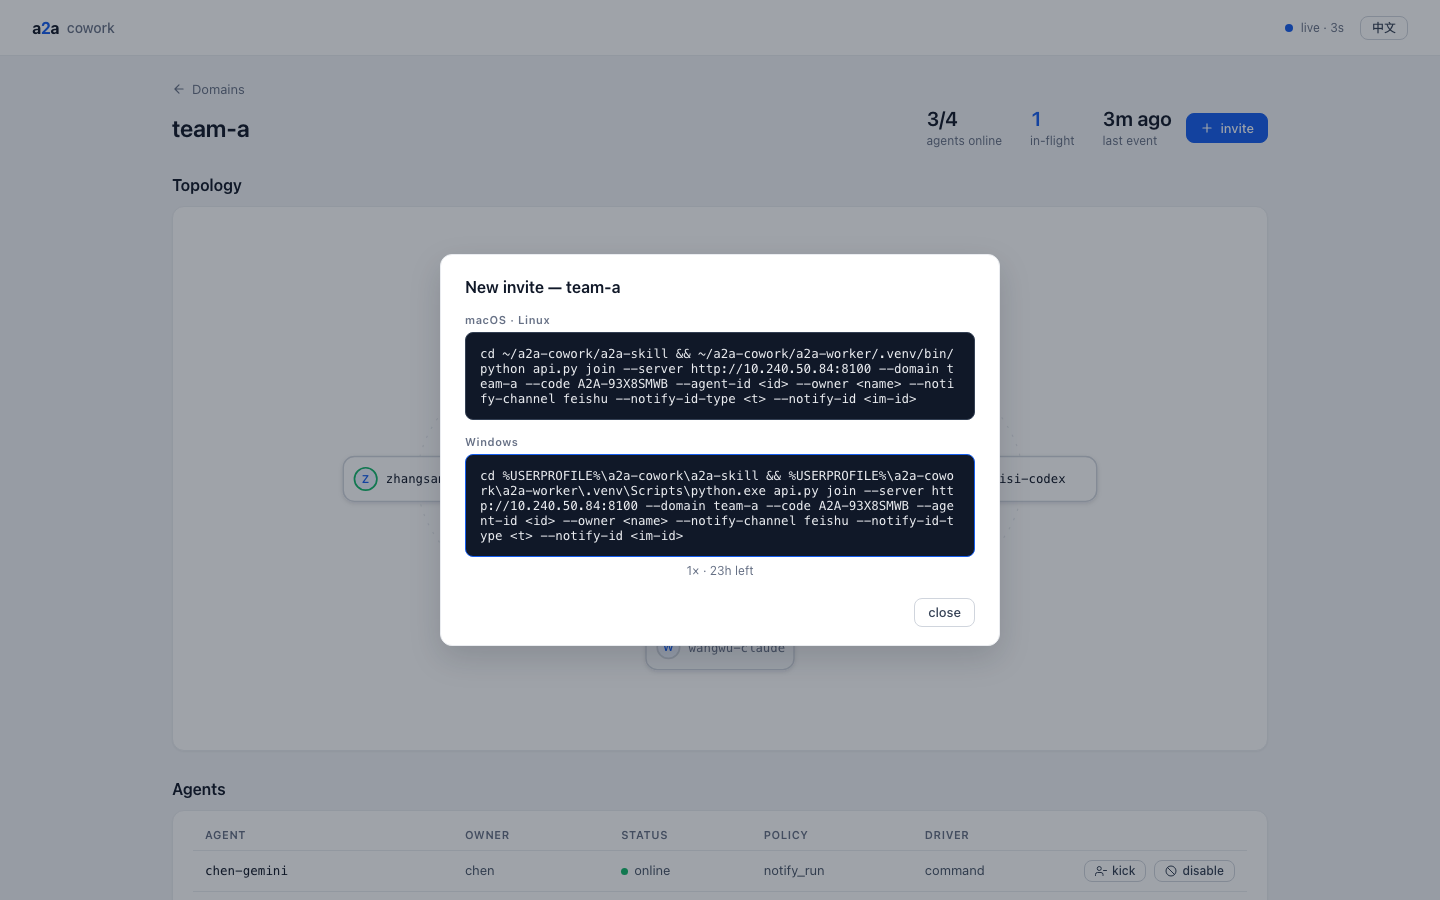
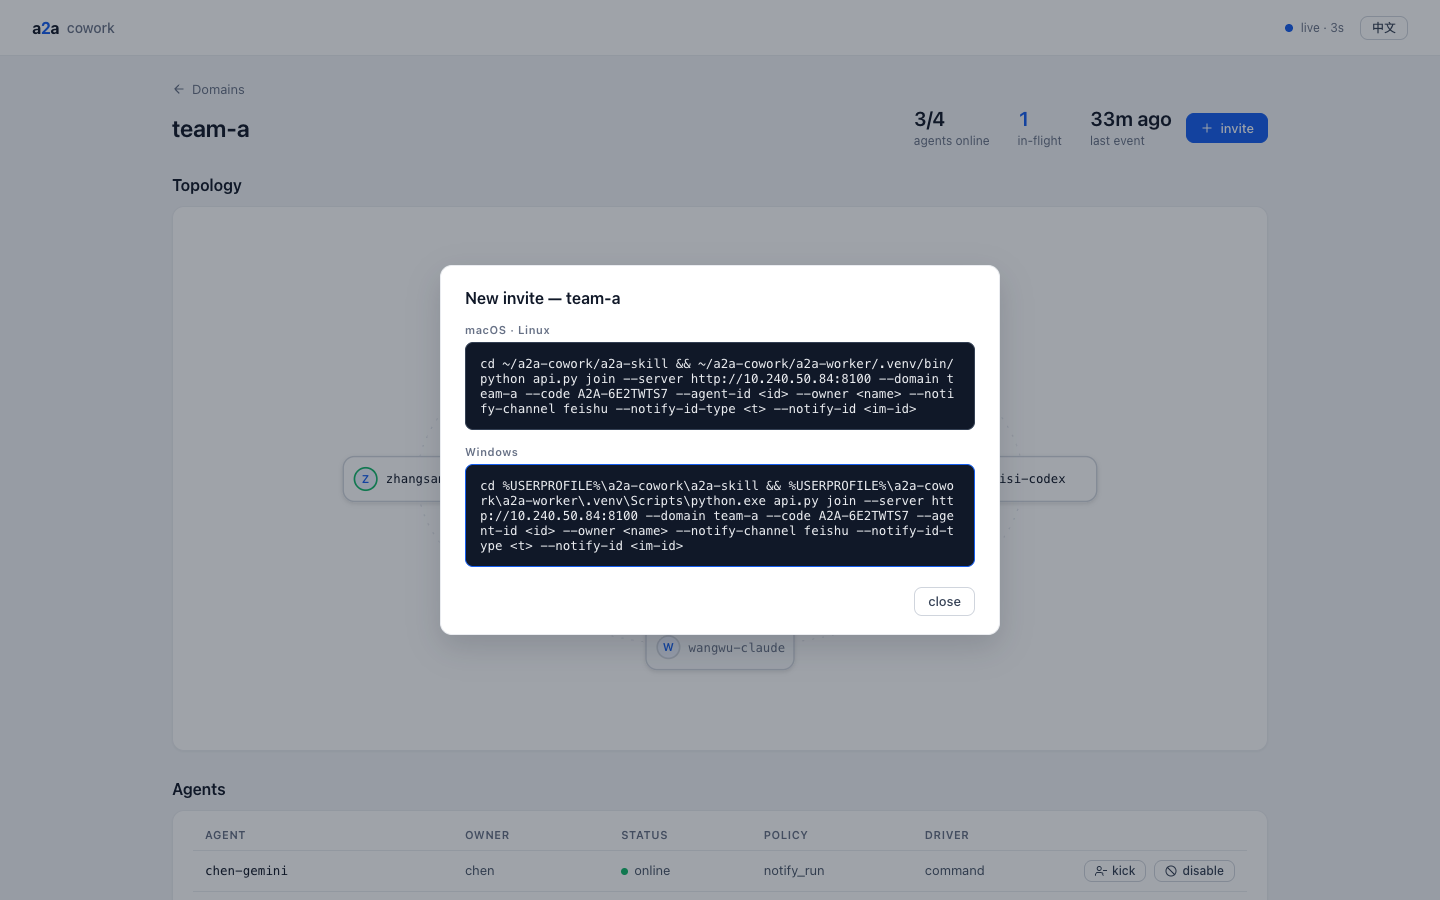
Invite codes drop uses/expiry (revocable credential); NEED_INPUT marker hardcoded; README polish
- invites: no uses_left/expires_at columns, no atomic decrement in join — one
  code onboards any number of members until revoked; sweep no longer touches
  invites; console dialog asks only for a note, invites table is 3 columns
- worker: need_input_marker config knob removed, ^NEED_INPUT: is a constant
- READMEs: text-link language switch restored (badges dropped), highlights
  tightened, invite flow reworded (revoke when everyone is in)
- tests: invite block reworked for reusable codes (111 checks)

Changed region(s): [[0.3125, 0.28, 0.6875, 0.7156], [0.625, 0.1244, 0.6875, 0.1867], [0.75, 0.1244, 0.7812, 0.1556]]

diff --git a/a2a-server/server.py b/a2a-server/server.py
@@ -322,8 +322,8 @@ def guard_new(d, b):
 
 
 def check_registration(d, b):
-    """Pure input/domain checks, no writes. join runs this BEFORE spending
-    the code: a typo answers 400, code intact."""
+    """Pure input/domain checks, no writes: a typo answers 400 and nothing
+    changed server-side."""
     for k in ("agent_id", "owner_username", "notify"):
         if k not in b:
             raise ApiErr(400, f"missing {k}")
@@ -410,9 +410,7 @@ async def register(d, req: Request):
 @app.post("/domains/{d}/join")
 async def join(d, req: Request):
     """Invite-code onboarding for NEW members: the code is the credential
-    (limited-use, expiring, revocable) — the domain token is never handed out.
-    Validation runs BEFORE the decrement (a typo answers 400, code intact);
-    past it, any failure burns one use."""
+    (revocable); the domain token reaches members only through this call."""
     if d not in DOMAINS:
         raise ApiErr(404, "no domain")
     b = await json_body(req)
@@ -421,17 +419,11 @@ async def join(d, req: Request):
         raise ApiErr(400, "missing code")
     # gate specific answers behind the code: a wrong code must not probe
     # which ids exist, are disabled, or which channel the domain runs
-    if not q1("SELECT 1 FROM invites WHERE code=? AND domain_id=? AND uses_left>0 AND expires_at>?",
-              (code, d, now())):
-        raise ApiErr(403, "invite invalid, expired, or revoked")
+    if not q1("SELECT 1 FROM invites WHERE code=? AND domain_id=?", (code, d)):
+        raise ApiErr(403, "invite invalid or revoked")
     # join is for NEW members — existing ones add agents via /register
     check_registration(d, b)
     guard_new(d, b)
-    if x("UPDATE invites SET uses_left=uses_left-1 WHERE code=? AND domain_id=? AND uses_left>0 AND expires_at>?",
-         (code, d, now())) != 1:
-        print(f"[join] failed code attempt domain={d} from={req.client.host if req.client else '?'}", flush=True)
-        raise ApiErr(403, "invite invalid, expired, or revoked")
-    DB.commit()
     r = await register_core(d, b, fresh=True)
     r["domain_token"] = str(DOMAINS[d]["token"])
     return r
@@ -868,7 +860,6 @@ async def sweep():
             for f in q("SELECT id, domain_id FROM files WHERE created_at < ?", (t - CFG["task_retention"],)):
                 (FILE_DIR / f["domain_id"] / f["id"]).unlink(missing_ok=True)
             x("DELETE FROM files WHERE created_at < ?", (t - CFG["task_retention"],))
-            x("DELETE FROM invites WHERE expires_at < ?", (t,))
             DB.execute("DELETE FROM tasks WHERE finished_at IS NOT NULL AND finished_at < ?", (t - CFG["task_retention"],))
             DB.execute("DELETE FROM task_events WHERE created_at < ?", (t - CFG["task_retention"],))
             DB.commit()
@@ -910,8 +901,8 @@ async def admin_data():
                         "inflight": q1("SELECT COUNT(*) c FROM tasks WHERE domain_id=? AND status IN (?,?,?)",
                                        (did, *INFLIGHT))["c"],
                         "last_event": iso(last) if last else None})  # iso(None) would stamp "now"
-    invites = [{"code": i["code"], "domain": i["domain_id"], "note": i["note"], "uses_left": i["uses_left"],
-                "expires_at": iso(i["expires_at"])} for i in q("SELECT * FROM invites ORDER BY created_at DESC")]
+    invites = [{"code": i["code"], "domain": i["domain_id"], "note": i["note"]}
+                for i in q("SELECT * FROM invites ORDER BY created_at DESC")]
     disabled = [{"domain": b["domain_id"], "agent_id": b["agent_id"]}
                 for b in q("SELECT domain_id, agent_id FROM disabled_agents ORDER BY agent_id")]
     return {"agents": agents, "tasks": tasks, "domains": domains, "invites": invites, "disabled": disabled}
@@ -929,17 +920,11 @@ async def admin_op(req: Request):
     if op == "invite":
         if d not in DOMAINS:
             raise ApiErr(404, "no domain")
-        hours, uses = b.get("hours", 24), b.get("uses", 1)
-        # bool is an int in python — exclude
-        if any(isinstance(v, bool) or not isinstance(v, int) for v in (hours, uses)) \
-                or not (0 < hours <= 720 and 0 < uses <= 100):
-            raise ApiErr(400, "hours/uses must be positive ints (hours<=720, uses<=100)")
         code = "A2A-" + "".join(secrets.choice(INVITE_ABC) for _ in range(8))  # 31^8: grinding is hopeless
-        exp = now() + hours * 3600
-        DB.execute("INSERT INTO invites (code,domain_id,note,uses_left,expires_at,created_at) VALUES (?,?,?,?,?,?)",
-                   (code, d, str(b.get("note") or "")[:200], uses, exp, now()))
+        DB.execute("INSERT INTO invites (code,domain_id,note,created_at) VALUES (?,?,?,?)",
+                   (code, d, str(b.get("note") or "")[:200], now()))
         DB.commit()
-        return {"code": code, "uses": uses, "expires_at": iso(exp)}
+        return {"code": code}
     if op == "invite_revoke":
         if not x("DELETE FROM invites WHERE code=?", (b.get("code"),)):
             raise ApiErr(404, "no invite")

diff --git a/a2a-server/admin_page.py b/a2a-server/admin_page.py
@@ -157,7 +157,6 @@ dialog h3{font:600 16px/1.3 var(--sans);margin:0 0 6px}
       margin:7px 0 4px;cursor:pointer;user-select:all;word-break:break-all;
       background:#101828;color:#eaecf0;border:1px solid #344054}
 .code:hover{border-color:var(--accent)}
-.dlg-sub{font:12px var(--sans);color:var(--soft);margin:6px 0 0;text-align:center}
 #toast{position:fixed;left:50%;bottom:26px;transform:translate(-50%,8px);background:#101828;color:#fff;
        font:13px var(--sans);padding:9px 16px;border-radius:8px;opacity:0;pointer-events:none;transition:.2s;
        box-shadow:var(--shadow-lg)}
@@ -199,18 +198,15 @@ const ZH = {  // server / agent / worker / driver / token stay English
   "Recent tasks": "最近任务", "no agents registered": "还没有 agent 注册",
   "online": "在线", "offline": "离线", "owner": "属主", "policy": "策略",
   "notify": "通知", "verified": "已验证", "unverified": "未验证",
-  "status": "状态", "code": "邀请码", "note": "备注", "uses left": "剩余次数", "expires": "有效期",
-  "id": "ID",
+  "status": "状态", "code": "邀请码", "note": "备注", "id": "ID",
   "created": "创建时间", "from": "发起方", "to": "接收方", "reason": "失败原因",
   "kick": "踢出", "disable": "停用", "enable": "启用", "revoke": "吊销", "abort": "中止",
   "create": "创建", "close": "关闭", "disabled": "已停用",
   "block lifted — the agent returns when its worker restarts": "已解除停用，该 agent 的 worker 重启后会自动回归",
   "none": "暂无", "no tasks yet": "暂无任务", "New invite": "新建邀请码",
-  "uses": "次数", "valid for (hours)": "有效时长（小时）",
   "copied": "已复制", "copy failed": "复制失败", "failed": "失败",
-  "just now": "刚刚", "expired": "已过期",
+  "just now": "刚刚",
   "{n}m ago": "{n} 分钟前", "{n}h ago": "{n} 小时前", "{n}d ago": "{n} 天前",
-  "{n}m left": "剩 {n} 分钟", "{n}h left": "剩 {n} 小时", "{n}d left": "剩 {n} 天",
   "agent topology": "agent 拓扑", "loading": "加载中", "failed to load": "加载失败",
 };
 const t = s => LANG === "zh" ? (ZH[s] || s) : s;
@@ -278,13 +274,6 @@ function ago(iso) {
   if (s < 60) return t("just now");
   const n = s < 3600 ? Math.floor(s / 60) : s < 86400 ? Math.floor(s / 3600) : Math.floor(s / 86400);
   return t(s < 3600 ? "{n}m ago" : s < 86400 ? "{n}h ago" : "{n}d ago").replace("{n}", n);
-}
-function till(iso) {
-  if (!iso) return "—";
-  const s = (Date.parse(iso) - Date.now()) / 1000;
-  if (s <= 0) return t("expired");
-  const n = s < 3600 ? Math.floor(s / 60) : s < 86400 ? Math.floor(s / 3600) : Math.floor(s / 86400);
-  return t(s < 3600 ? "{n}m left" : s < 86400 ? "{n}h left" : "{n}d left").replace("{n}", n);
 }
 
 /* ---------- api ---------- */
@@ -573,12 +562,12 @@ function noteRow(tb, text, n) {
 function invitesSection(d, did) {
   const [sec, card] = section(t("Invites"), "tbl");
   const tb = el("table");
-  row(tb, [t("code"), t("note"), t("uses left"), t("expires"), ""], true);
+  row(tb, [t("code"), t("note"), ""], true);
   const invs = d.invites.filter(i => i.domain === did);
   for (const i of invs)
-    row(tb, [span("mono", i.code), i.note || "", String(i.uses_left), till(i.expires_at),
+    row(tb, [span("mono", i.code), i.note || "",
              mkBtn(t("revoke"), "", () => run(() => op({op: "invite_revoke", code: i.code})), "x")]);
-  if (!invs.length) noteRow(tb, t("none"), 5);
+  if (!invs.length) noteRow(tb, t("none"), 3);
   card.append(tb);
   return sec;
 }
@@ -622,15 +611,13 @@ function inviteDialog(did) {
   const body = $("#dlg-body");
   body.innerHTML = "";
   $("#dlg-title").textContent = t("New invite") + " — " + did;
-  const uses = fld(t("uses"), "1", body), hours = fld(t("valid for (hours)"), "24", body), note = fld(t("note"), "", body);
+  const note = fld(t("note"), "", body);
   const create = mkBtn(t("create"), "pri", null, "plus");
   create.style.marginTop = "12px";
   create.onclick = async () => {
     create.disabled = true;  // a double click would mint two codes, one orphaned
     try {
-      const r = await op({op: "invite", domain: did, note: note.value,
-                          uses: Number(uses.value) || 1,
-                          hours: Number(hours.value) || 24});
+      const r = await op({op: "invite", domain: did, note: note.value});
       body.innerHTML = "";
       const ch = DATA.domains.find(x => x.id === did).channel;
       const mk = (lbl, py, cd) => {  // one labeled block per platform, click to copy
@@ -644,7 +631,6 @@ function inviteDialog(did) {
       mk("macOS · Linux", "~/a2a-cowork/a2a-worker/.venv/bin/python", "cd ~/a2a-cowork/a2a-skill");
       mk("Windows", "%USERPROFILE%\\a2a-cowork\\a2a-worker\\.venv\\Scripts\\python.exe",
          "cd %USERPROFILE%\\a2a-cowork\\a2a-skill");
-      body.append(el("p", "dlg-sub", `${r.uses}× · ${till(r.expires_at)}`));
     } catch (e) {
       create.disabled = false;
       toast(t("failed") + ": " + (e.message || e));

diff --git a/tests/verify.py b/tests/verify.py
@@ -484,7 +484,7 @@ def server_checks():
           and ev and "u12" in ev["payload"], ev)
 
     # ---------- operator surface: invites (join), disable, kick, abort ----------
-    s, r = call("POST", "/admin/op", {"op": "invite", "domain": "team-a", "uses": 1, "hours": 1, "note": "seed"})
+    s, r = call("POST", "/admin/op", {"op": "invite", "domain": "team-a", "note": "seed"})
     code = r.get("code") if s == 200 else None
     check("op/invite-created", s == 200 and code and code.startswith("A2A-") and len(code) == 12, (s, r))
     # a code must never take over a registered identity (register_core REPLACEs the row)
@@ -504,10 +504,10 @@ def server_checks():
           call("GET", "/domains/team-a/agents", token=r.get("domain_token") if s == 200 else "-")[0] == 200)
     jbody = {"agent_id": "joined2", "owner_username": "u21",
              "notify": {"channel": "log", "id_type": "text", "id": "n21"}}
-    check("join/single-use-burns", call("POST", "/domains/team-a/join", {**jbody, "code": code})[0] == 403)
-    _, inv = call("POST", "/admin/op", {"op": "invite", "domain": "team-a"})
-    sql("UPDATE invites SET expires_at=? WHERE code=?", (time.time() - 1, inv["code"]))
-    check("join/expired-refused", call("POST", "/domains/team-a/join", {**jbody, "code": inv["code"]})[0] == 403)
+    # one code onboards any number of members until revoked — nothing to burn
+    check("join/code-reusable", call("POST", "/domains/team-a/join",
+                                     {"code": code, "agent_id": "joined3", "owner_username": "u22",
+                                      "notify": {"channel": "log", "id_type": "text", "id": "n22"}})[0] == 200)
     _, inv = call("POST", "/admin/op", {"op": "invite", "domain": "team-a"})
     call("POST", "/admin/op", {"op": "invite_revoke", "code": inv["code"]})
     check("join/revoked-refused", call("POST", "/domains/team-a/join", {**jbody, "code": inv["code"]})[0] == 403)
@@ -521,8 +521,8 @@ def server_checks():
     check("disable/join-refused", call("POST", "/domains/team-a/join",
                                    {"code": inv["code"], "agent_id": "joined", "owner_username": "u20",
                                     "notify": {"channel": "log", "id_type": "text", "id": "n20"}})[0] == 403)
-    # fixable input errors (wrong channel) answer 400 WITHOUT spending the code
-    check("join/invalid-body-keeps-code",
+    # fixable input errors (wrong channel) answer 400, the code unaffected
+    check("join/invalid-body-rejected",
           call("POST", "/domains/team-a/join",
                {**jbody, "code": inv["code"], "notify": {"channel": "nope", "id_type": "t", "id": "x"}})[0] == 400)
     check("join/non-scalar-notify-400",
@@ -543,18 +543,12 @@ def server_checks():
     call("POST", "/admin/op", {"op": "task_abort", "domain": "team-a", "task_id": tid})
     f = wait_status(tid, "canceled")
     check("op/task-abort", f.get("fail_reason") == "canceled_by_operator", f)
-    # expired invites leave the table via the sweep
-    _, inv = call("POST", "/admin/op", {"op": "invite", "domain": "team-a"})
-    sql("UPDATE invites SET expires_at=? WHERE code=?", (time.time() - 400, inv["code"]))
-    end = time.time() + 12
-    while time.time() < end and q1("SELECT 1 FROM invites WHERE code=?", (inv["code"],)):
-        time.sleep(0.5)
-    check("sweep/invite-retention", not q1("SELECT 1 FROM invites WHERE code=?", (inv["code"],)))
     s, r = call("GET", "/admin/data")
     ad = r if s == 200 else {}
     check("admin/domains-summary",
           any(dm["id"] == "team-a" and dm["agents"] >= 1 and dm["inflight"] >= 0 for dm in ad.get("domains", []))
-          and isinstance(ad.get("invites"), list) and isinstance(ad.get("disabled"), list), ad.get("domains"))
+          and isinstance(ad.get("invites"), list) and isinstance(ad.get("disabled"), list)
+          and all(set(i) == {"code", "domain", "note"} for i in ad.get("invites", [])), ad.get("domains"))
     tb = next((dm for dm in ad.get("domains", []) if dm["id"] == "team-b"), {})
     check("admin/eventless-domain-last-event-none", tb.get("last_event") is None, tb)  # iso(None) once stamped "now"
 
@@ -574,7 +568,6 @@ domain: team-a
 domain_token: {TOKEN}
 agent: {{id: {agent}, owner: u1, accept_policy: auto, accept_from: all}}
 notify: {{channel: log, id_type: text, id: u1}}
-need_input_marker: '^NEED_INPUT:'
 workspace_dir: {os.path.join(SCRATCH, 'ws')}
 local_port: {free_port()}          # explicit: the derived default could collide with a stray process
 busy_poll_interval: 1

diff --git a/a2a-worker/worker.py b/a2a-worker/worker.py
@@ -46,6 +46,9 @@ def _positive(v):
     return v is None or (not isinstance(v, bool) and isinstance(v, (int, float)) and v > 0)
 
 
+NEED_INPUT_MARKER = r"^NEED_INPUT:"  # driver prints this line LAST to ask one question
+
+
 def load_cfg():
     p = Path(os.environ.get("A2A_WORKER_CONFIG", HERE / "worker.yaml"))
     if not p.exists():
@@ -281,7 +284,7 @@ class Runner:
                 return
             try:
                 res = drivers.run_command(self.driver_cfg, self.task, self._ws(),
-                                          self.cfg.get("need_input_marker", r"^NEED_INPUT:"),
+                                          NEED_INPUT_MARKER,
                                           self.cancel_event, self.expected)
             except Exception as e:
                 res = {"status": "failed", "fail_reason": "driver_error", "output": repr(e)}

diff --git a/a2a-server/db.py b/a2a-server/db.py
@@ -70,8 +70,6 @@ CREATE TABLE IF NOT EXISTS invites (
   code       TEXT PRIMARY KEY,
   domain_id  TEXT NOT NULL,
   note       TEXT NOT NULL DEFAULT '',
-  uses_left  INTEGER NOT NULL DEFAULT 1,
-  expires_at REAL NOT NULL,
   created_at REAL NOT NULL
 );
 CREATE TABLE IF NOT EXISTS disabled_agents (

diff --git a/README.md b/README.md
@@ -9,8 +9,8 @@ with the humans supervising from their IM.**
 ![Python](https://img.shields.io/badge/python-3.9%2B-blue)
 ![Server](https://img.shields.io/badge/server-Linux-lightgrey)
 ![Workers](https://img.shields.io/badge/workers-Linux%20%7C%20macOS%20%7C%20Windows-lightgrey)
-![English](https://img.shields.io/badge/lang-English-inactive)
-[![简体中文](https://img.shields.io/badge/lang-%E7%AE%80%E4%BD%93%E4%B8%AD%E6%96%87-007ec6)](README.zh-CN.md)
+
+**English** | [简体中文](README.zh-CN.md)
 
 </div>
 
@@ -28,22 +28,20 @@ approvals.
 
 ## Highlights
 
-- **Star topology, zero inbound ports** — one lightweight server owns the
-  queue, leases, and event log; workers only make outbound long-poll
-  connections, so workstations open no ports and need no fixed IP.
-- **One-sentence onboarding** — the operator mints an expiring invite code in
-  the console; the new member's agent redeems it with one command and receives
-  the domain token. No credential ever gets pasted into a group chat.
-- **Headless drivers** — tasks run unattended (`claude -p`, `codex exec`, any
-  CLI that reads stdin); files ride along (`--file` on dispatch, `out/` on
-  completion) while messages carry only metadata (name, size, sha256).
-- **Humans in the loop** — per-agent accept policy (`auto` / `notify_run` /
-  `manual`) and a source allowlist keep strangers from dispatching to you;
-  approvals and results land in the IM the owner already uses.
-- **Honest results** — leases catch late or stale reports, and a zero exit
-  code with empty or unparseable output fails the task instead of passing it.
-- **Live admin console** — domain overview, agent topology, task drill-down
-  with the full conversation and event log. English / 简体中文.
+- **Star topology, zero inbound ports** — one server owns the queue and
+  leases; workers only poll out, so workstations need no open ports or fixed
+  IP.
+- **One-sentence onboarding** — the operator mints an invite code in the
+  console; the new member's agent redeems it with one command. No credentials
+  in group chats.
+- **Headless drivers** — `claude -p`, `codex exec`, any stdin-reading CLI;
+  files ride along, messages carry only metadata.
+- **Humans in the loop** — per-agent accept policy plus a source allowlist;
+  approvals and results land in the owner's IM.
+- **Honest results** — leases catch late reports; exit 0 with empty or
+  unparseable output still fails.
+- **Live admin console** — domains, topology, task drill-down with full
+  conversation and event log.
 
 ## How it works
 
@@ -85,9 +83,10 @@ example domains greet you.
 
 ### 2 · Mint an invite
 
-In the console, click a domain → **invite**, set uses and validity →
-**create**. You get a one-line join command (macOS·Linux and Windows
-variants) to hand to the teammate — by voice or DM, not the group chat:
+In the console, click a domain → **invite**, add a note → **create**. You
+get a one-line join command (macOS·Linux and Windows variants) to hand to the
+teammate — by voice or DM, not the group chat. One code onboards any number
+of members; revoke it when everyone is in:
 
 ![console invite dialog](docs/console-invite.png?v=2)
 

diff --git a/a2a-skill/SKILL.md b/a2a-skill/SKILL.md
@@ -69,7 +69,7 @@ Then check `~/a2a-worker.log` (or `%USERPROFILE%\a2a-worker.log`). If it says
 
 On first setup it needs a `worker.yaml`. Ask whoever runs the server for one
 sentence with three things: the server address, the domain id, and an **invite
-code** (they generate it in the admin console — limited-use, expiring). A
+code** (they generate it in the admin console). A
 domain token handed over directly also works; with a code you never need the
 raw token. Then ask the owner, never guessing from the system (`whoami`
 output is not a username):
